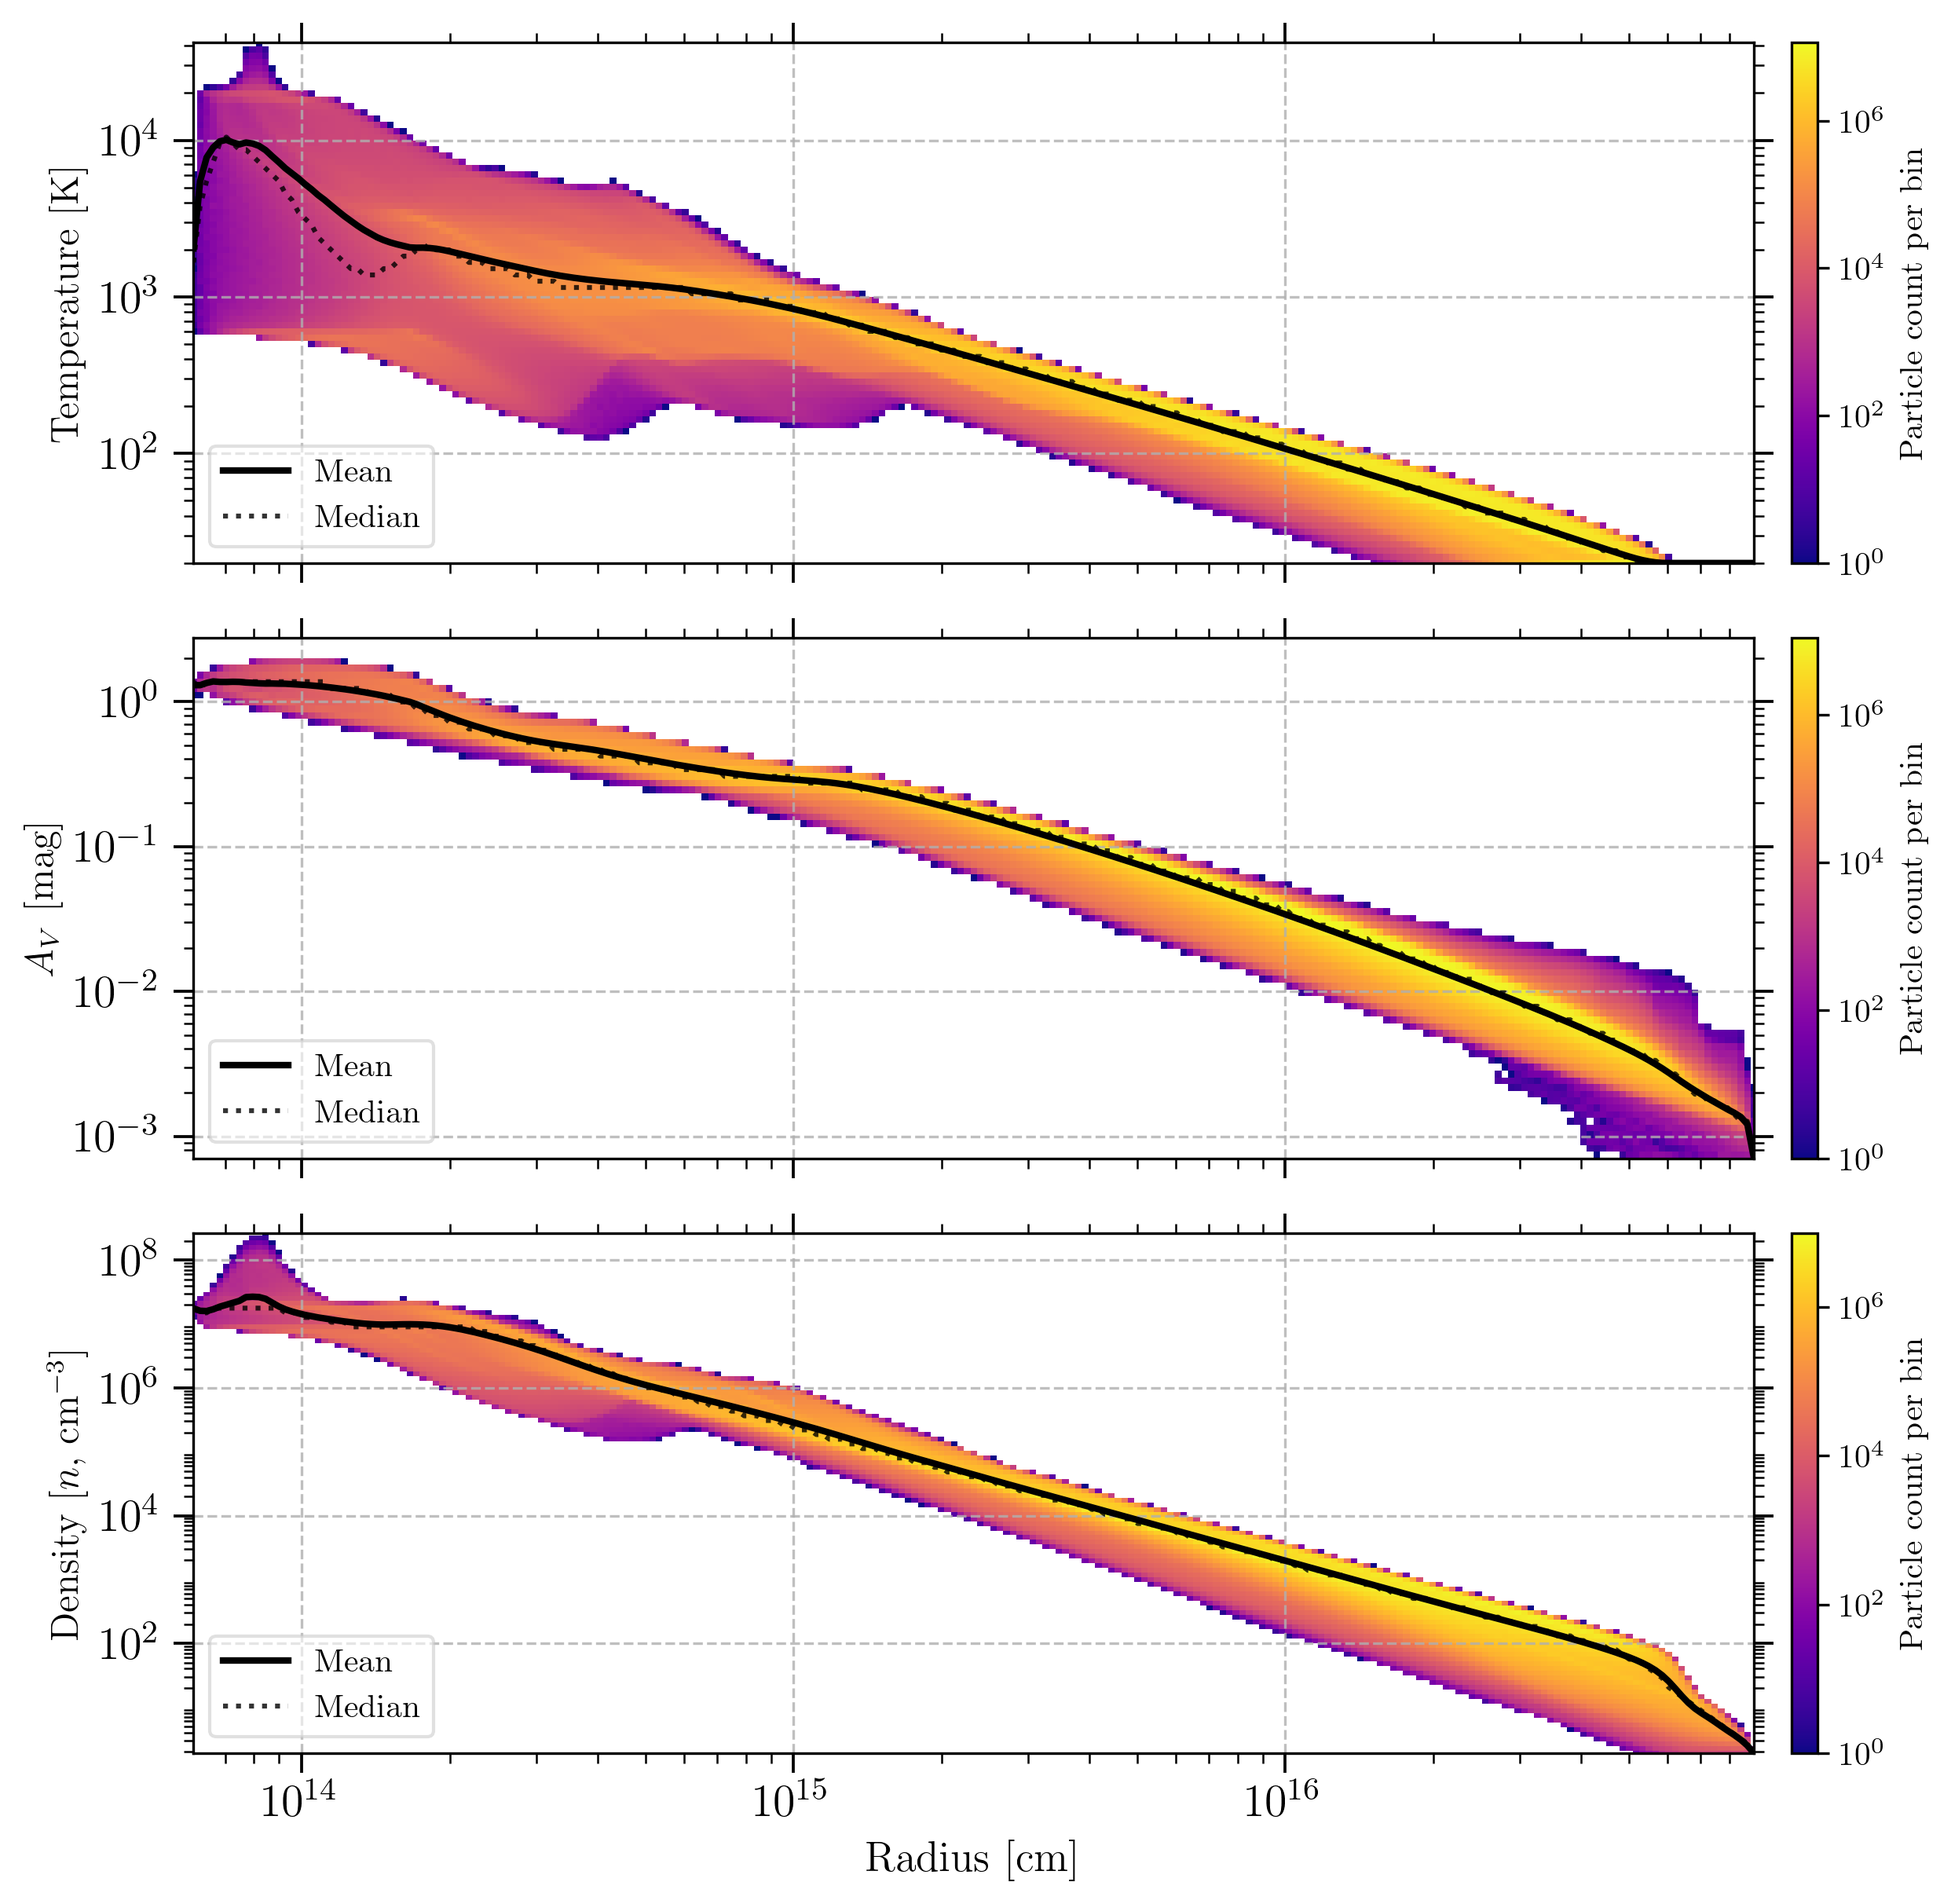
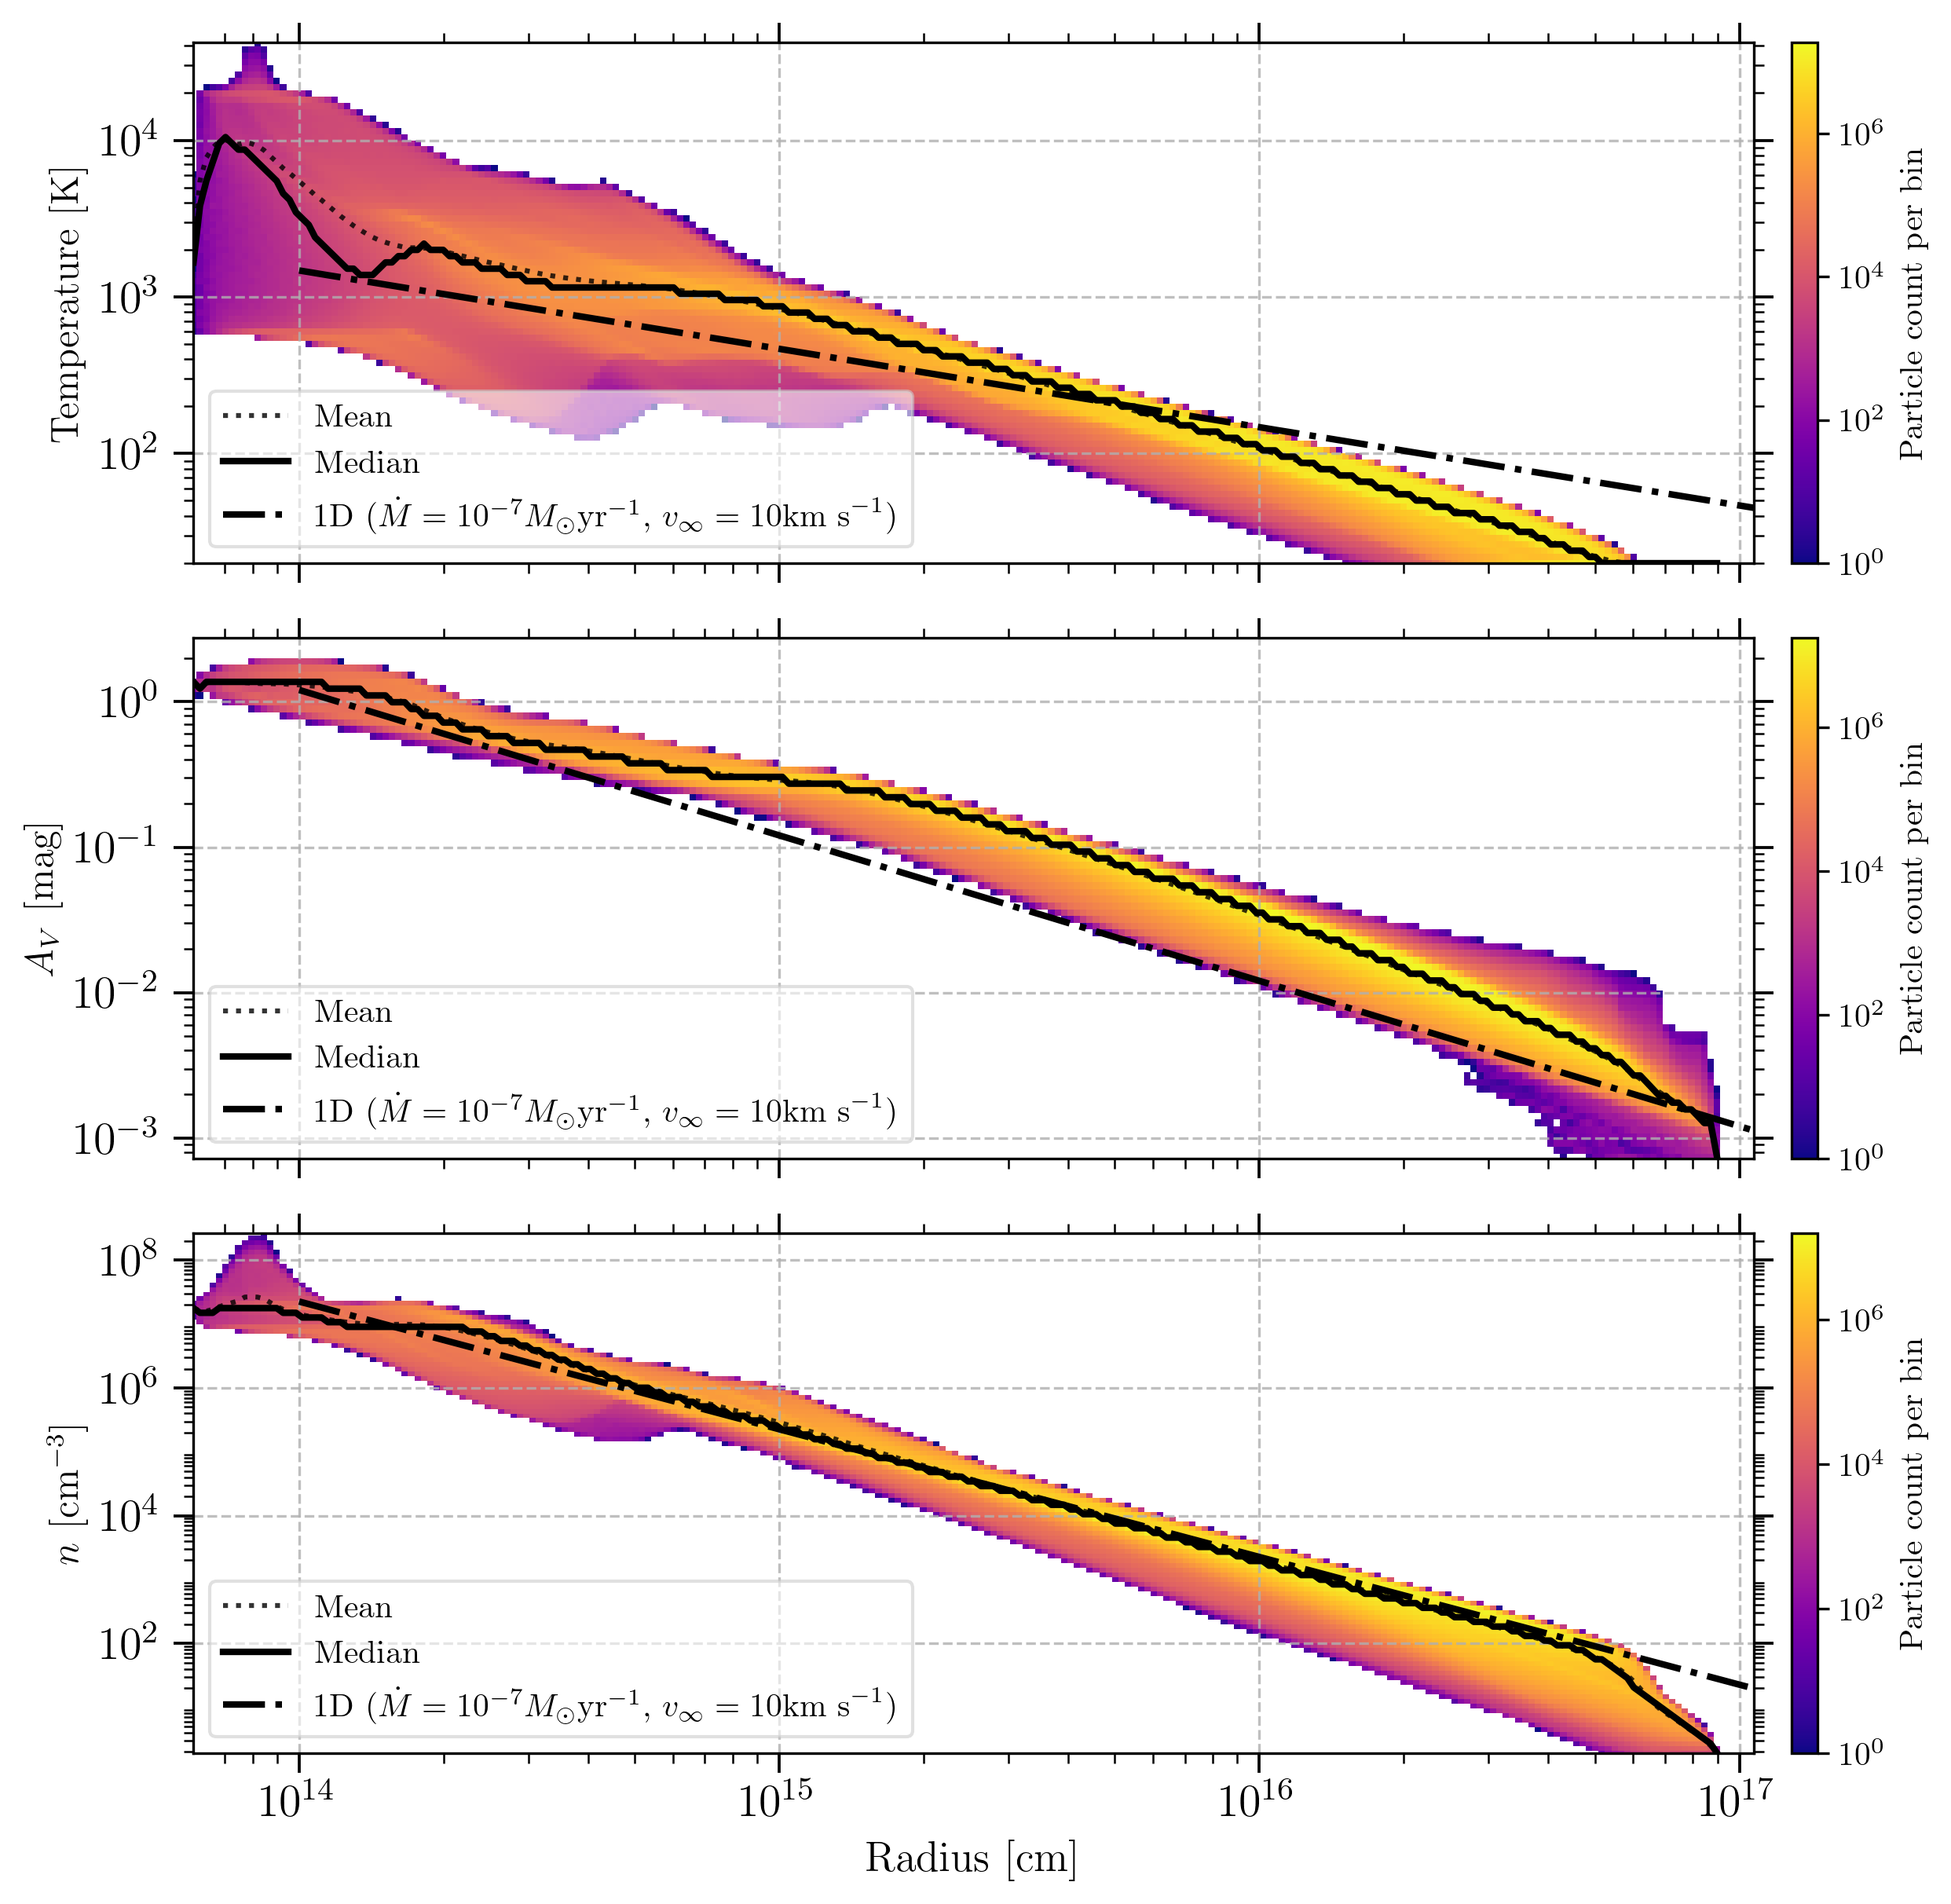
point density phys w/ 1d profiles

diff --git a/pipeline/plotting/plot_pointdensity.py b/pipeline/plotting/plot_pointdensity.py
@@ -147,43 +147,72 @@ def load_1d_data(chemistry: str):
                 folder + "csphyspar_smooth.out", "RADIUS"
             )
             fracs_1d  = CodeIO.getChemistryAbundances(folder + "csfrac_smooth.out")
+            coldens = CodeIO.getColumnDensities(folder + "cscoldens_smooth.out")
+            nH2 = CodeIO.getChemistryPhysPar(folder + "csphyspar_smooth.out", "n(H2)")
+            AV = CodeIO.getChemistryPhysPar(folder + "csphyspar_smooth.out", "A_V")
+            T = CodeIO.getChemistryPhysPar(folder + "csphyspar_smooth.out", "TEMP.")
+
     print(f"Loaded 1D model")
-    return radius_1d, fracs_1d, mloss_label, vinf_label
+    return radius_1d, fracs_1d, coldens, nH2, AV, T, mloss_label, vinf_label
 
 # ---------------------------------------------------------------------------
 # 1-D profile overlay
 # ---------------------------------------------------------------------------
 
+# Maps the PHYS_PARAMS key to the index in load_1d_data's return tuple
+_PHYS_1D_INDEX = {
+    "temperature": 5,   # T
+    "av":          4,   # AV
+    "density":     3,   # nH2
+}
+
 def overlay_1d_profile(
     ax,
-    molecule:   str,
     chemistry:  str,
-    color:      str   = "k",
-    lw:         float = 2.0,
-    ls:         str   = "-.",
+    molecule:   str | None = None,
+    phys_param: str | None = None,
+    color:      str        = "k",
+    lw:         float      = 2.0,
+    ls:         str        = "-.",
     label:      str | None = None,
 ) -> None:
     """
-    Overlay the 1-D chemistry model profile for *molecule* on *ax*.
+    Overlay the 1-D model profile on *ax* for either a chemical species
+    or a physical parameter.
 
     Parameters
     ----------
-    ax        : matplotlib Axes
-    molecule  : species name as it appears in the 1-D model output
-    chemistry : "Crich" or "Orich"
-    color     : line colour (default cyan for visibility on the plasma colourmap)
-    lw        : line width
-    ls        : line style
-    label     : legend label; if None, auto-generates "1D (<mloss>, <vinf>)"
+    molecule   : species name — mutually exclusive with phys_param
+    phys_param : one of "temperature", "av", "density"
+                 mutually exclusive with molecule
     """
-    radius_1d, fracs_1d, mloss_label, vinf_label = load_1d_data(chemistry)
-    frac = get_fractional_abundance(fracs_1d, molecule)
-    if frac is None:
-        print(f"  overlay_1d_profile: '{molecule}' not found in 1-D model — skipping.")
-        return
+    if (molecule is None) == (phys_param is None):
+        raise ValueError("Provide exactly one of 'molecule' or 'phys_param'.")
+
+    # load_1d_data returns:
+    #   radius_1d, fracs_1d, coldens, nH2, AV, T, mloss_label, vinf_label
+    result = load_1d_data(chemistry)
+    radius_1d   = result[0]
+    fracs_1d    = result[1]
+    mloss_label = result[6]
+    vinf_label  = result[7]
+
     _label = label if label is not None else f"1D ({mloss_label}, {vinf_label})"
-    ax.plot(radius_1d, frac, lw=lw, ls=ls, color=color,
-            label=_label, zorder=6)
+
+    if molecule is not None:
+        frac = get_fractional_abundance(fracs_1d, molecule)
+        if frac is None:
+            print(f"  overlay_1d_profile: '{molecule}' not found in 1-D model — skipping.")
+            return
+        values = frac
+
+    else:
+        if phys_param not in _PHYS_1D_INDEX:
+            print(f"  overlay_1d_profile: '{phys_param}' not supported — skipping.")
+            return
+        values = result[_PHYS_1D_INDEX[phys_param]]
+
+    ax.plot(radius_1d, values, lw=lw, ls=ls, color=color, label=_label, zorder=6)
 
 # ---------------------------------------------------------------------------
 # Single-particle track
@@ -628,8 +657,13 @@ def plot_density(
         ax.plot(R_CENTRES, stats["p50"], lw=2.0, ls="-",
                 color=primary_c_white, label="Median", zorder=5)
 
-    if overlay_1d and molecule is not None:
-        overlay_1d_profile(ax, molecule=molecule, chemistry=chemistry)
+    if overlay_1d and (molecule is not None or param is not None):
+        overlay_1d_profile(
+            ax,
+            chemistry  = chemistry,
+            molecule   = molecule,
+            phys_param = param,        
+        )
 
     if particle_id is not None:
         overlay_particle_track(
@@ -688,12 +722,14 @@ def plot_density(
 def plot_density_all_phys(
     data_per_param: dict[str, tuple[np.ndarray, np.ndarray, np.ndarray]],
     overlay_stats:  bool         = True,
+    overlay_1d:     bool         = False,   
     particle_id:    int | None   = None,
     vmin:           float | None = None,
     vmax:           float | None = None,
     save_path:      Path | None  = None,
     show:           bool         = False,
     dark_mode:      bool         = False,
+    chemistry:      str          = "Crich", 
 ) -> None:
     """
     Plot all three physical parameters in a single figure with three
@@ -755,6 +791,13 @@ def plot_density_all_phys(
                     color=primary_c_white, alpha=0.8, label="Mean", zorder=5)
             ax.plot(R_CENTRES, stats["p50"], lw=2.0, ls="-",
                     color=primary_c_white, label="Median", zorder=5)
+            
+        if overlay_1d:
+            overlay_1d_profile(
+                ax,
+                chemistry  = chemistry,
+                phys_param = param,
+            )
 
         if particle_id is not None:
             overlay_particle_track(
@@ -872,7 +915,8 @@ def main() -> None:
     
     if is_interactive():
         args = parser.parse_args([
-            "--molecule",       *mol_list,
+            # "--molecule",       *mol_list,
+            "--phys-param",    "all",
             "--chemistry",      "Crich",
             "--n-tasks",        "32",
             "--overlay-stats",
@@ -924,17 +968,19 @@ def main() -> None:
             for param in PHYS_PARAMS:
                 data_per_param[param] = aggregate_phys_param(
                     param, args.chemistry, args.n_tasks
-                )
+                    )
             plot_density_all_phys(
-                data_per_param = data_per_param,
-                overlay_stats  = args.overlay_stats,
-                particle_id    = args.overlay_particle,
-                vmin           = args.vmin,
-                vmax           = args.vmax,
-                save_path      = save_dir / f"point_density_phys_all.{save_ext}",
-                show           = args.show,
-                dark_mode      = args.dark_mode,
-            )
+                    data_per_param = data_per_param,
+                    overlay_stats  = args.overlay_stats,
+                    overlay_1d     = args.overlay_1d,   # NEW
+                    chemistry      = args.chemistry,     # NEW
+                    particle_id    = args.overlay_particle,
+                    vmin           = args.vmin,
+                    vmax           = args.vmax,
+                    save_path      = save_dir / f"point_density_phys_all.{save_ext}",
+                    show           = args.show,
+                    dark_mode      = args.dark_mode,
+                )
         else:
             param = args.phys_param
             bin_sum, bin_count, hist_2d = aggregate_phys_param(
